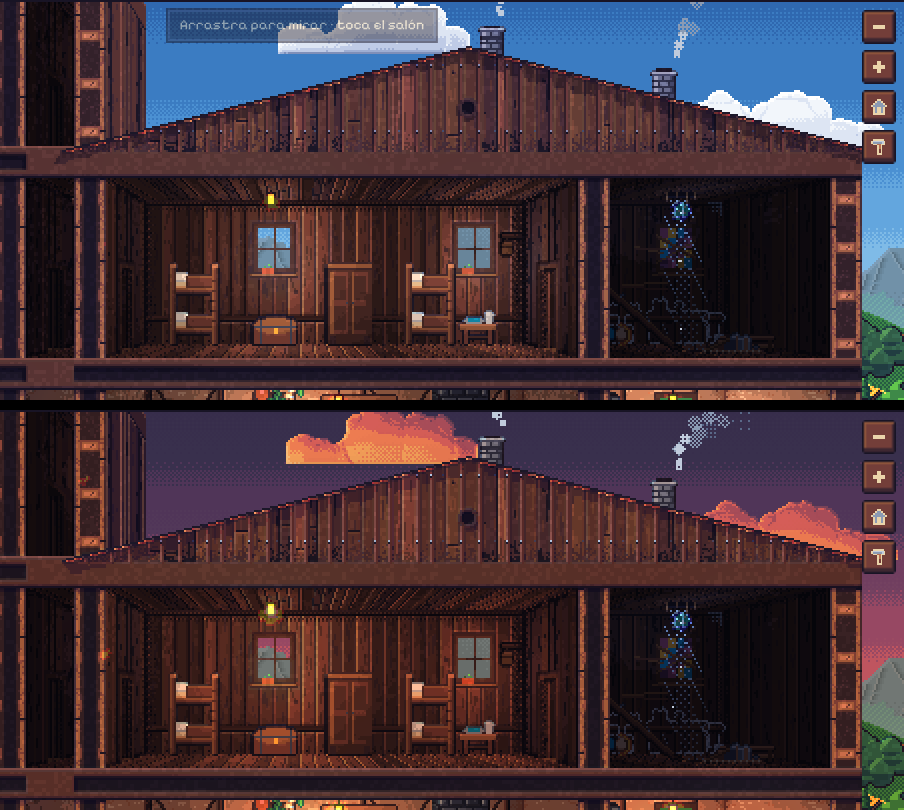
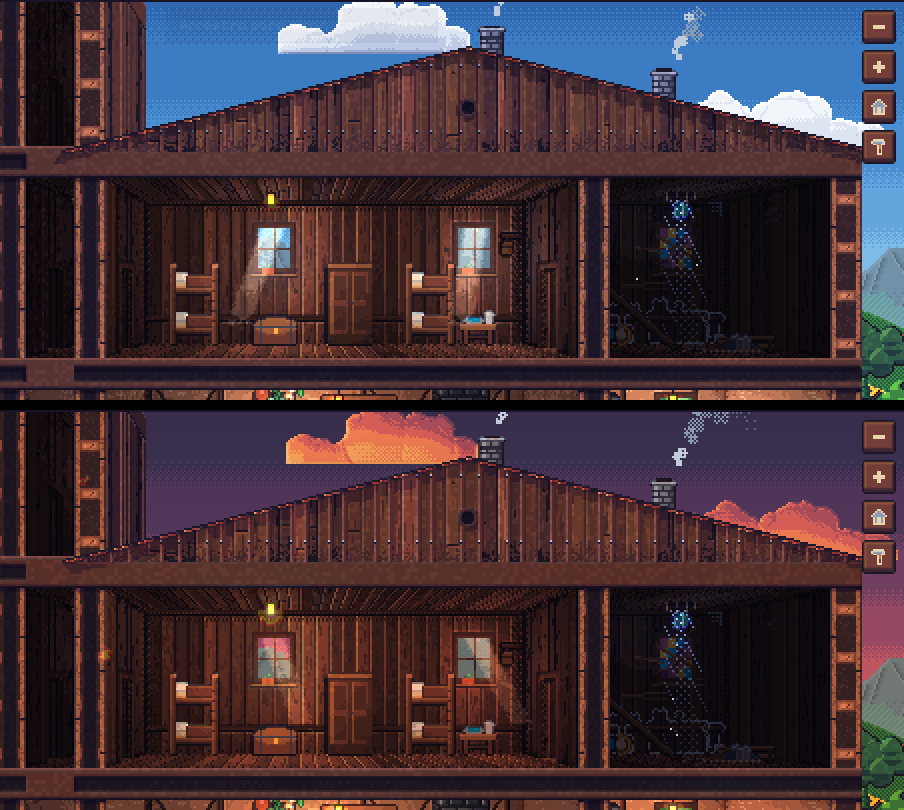
Fase 3: el rayo de sol de cada ventana, visible en el aire
Con «Luz con ambiente» y de día, cada ventana echa una lámina de luz en bandas
(aditiva, sin degradado) hasta el suelo de la sala, inclinada al contrario del
sol y del color del día (dorada al atardecer). Capturas al día.

Claude-Session: https://claude.ai/code/session_014SpyiNw8xcPCkBhD81BYzV

diff --git a/src/world/rooms/RoomScene.ts b/src/world/rooms/RoomScene.ts
@@ -371,6 +371,9 @@ export class RoomScene {
   private dustT = 0;
   private towerRect: Rect | null = null;
   private flames: Mesh[] = [];
+  /** Rayos de sol de las ventanas (luz con ambiente). */
+  private sunbeams: Mesh[] = [];
+  private unitPlane = new PlaneGeometry(1, 1);
   /** La hierba que mueve el viento: cada mata, con su sitio (el viento pasa por x). */
   private grass: { m: Mesh; x: number; seed: number }[] = [];
   private grassTick = -1;
@@ -1275,6 +1278,7 @@ export class RoomScene {
     this.look = new Look(this.shared);
     this.lamps = [];
     this.flames = [];
+    this.sunbeams = [];
     this.grass = [];
     this.emitters = [];
     this.forgeLamps = [];
@@ -1614,6 +1618,20 @@ export class RoomScene {
           halo: 0,
           sun: true,
         });
+        // El rayo en el aire: de la ventana al suelo de la sala.
+        const sx = r.w / back.w;
+        const sy = r.h / back.h;
+        const mat = this.look.shaft();
+        const u = mat.uniforms;
+        u.uTop!.value.set(r.x + (p.x - p.w / 2) * sx, GROUND - (r.y + p.top * sy), -(DEPTH - 1));
+        u.uW!.value = p.w * sx;
+        u.uDrop!.value = r.y + r.h - (r.y + p.top * sy);
+        u.uIn!.value = DEPTH * 0.55;
+        const beam = new Mesh(this.unitPlane, mat);
+        beam.frustumCulled = false;
+        beam.visible = false;
+        this.world.add(beam);
+        this.sunbeams.push(beam);
       }
     // Puerta al jardín en la planta baja, si no hay en medio una escalera sin rellano (que tapa
     // el paso; con rellano, la puerta va en ella). Como `opens` en `cutOff` (`core/rooms.ts`).
@@ -3061,6 +3079,15 @@ export class RoomScene {
     // La luz de las ventanas (luz con ambiente): llena de día, algo menos al atardecer, nada de
     // noche; su color, el del día (más dorado al atardecer).
     const sunLampK = this.moodLight ? Math.max(dl.day, dl.dusk * 0.8) : 0;
+    // Los rayos de sol de las ventanas: se inclinan al contrario del sol y toman su color.
+    const sd = this.shared.uSunDir.value;
+    for (const b of this.sunbeams) {
+      b.visible = sunLampK > 0.02;
+      const u = (b.material as ShaderMaterial).uniforms;
+      u.uK!.value = sunLampK;
+      u.uSlant!.value = -sd.x * 0.7;
+      u.uColor!.value.set(1, 0.88 - 0.3 * dl.dusk, 0.7 - 0.38 * dl.dusk);
+    }
     const cx = view.px + view.vw / 2;
     const cy = GROUND - (view.py + view.vh / 2);
     const x0 = view.px - 40;

diff --git a/src/world/rooms/gl.ts b/src/world/rooms/gl.ts
@@ -8,6 +8,7 @@
  * con la pantalla, y la imagen no «bulle» al mover la cámara.
  */
 import {
+  AdditiveBlending,
   BufferGeometry,
   DataTexture,
   DoubleSide,
@@ -286,6 +287,45 @@ const SURFACE_FRAG = /* glsl */ `
   }
 `;
 
+/**
+ * Rayo de sol que entra por una ventana (luz con ambiente): una lámina que baja de la ventana al
+ * suelo, inclinada al contrario del sol y acercándose a la cámara, en bandas sin degradado.
+ */
+const SHAFT_VERT = /* glsl */ `
+  uniform vec3 uTop;
+  uniform float uW;
+  uniform float uDrop;
+  uniform float uSlant;
+  uniform float uIn;
+  varying vec2 vUv;
+  void main() {
+    vUv = vec2(uv.x, 1.0 - uv.y);
+    vec3 p = vec3(
+      uTop.x + vUv.x * uW + vUv.y * uDrop * uSlant,
+      uTop.y - vUv.y * uDrop,
+      uTop.z + vUv.y * uIn
+    );
+    gl_Position = projectionMatrix * viewMatrix * vec4(p, 1.0);
+  }
+`;
+
+const SHAFT_FRAG = /* glsl */ `
+  uniform vec3 uColor;
+  uniform float uK;
+  uniform float uW;
+  uniform float uDrop;
+  varying vec2 vUv;
+  void main() {
+    float edge = smoothstep(0.0, 0.3, vUv.x) * smoothstep(1.0, 0.7, vUv.x);
+    float fall = pow(1.0 - vUv.y, 0.9);
+    vec2 cell = floor(vUv * vec2(uW, uDrop) / 2.0);
+    float jit = fract(sin(dot(cell, vec2(12.9898, 78.233))) * 43758.5453) - 0.5;
+    float i = floor(edge * fall * uK * 4.0 + jit * 0.6) / 4.0;
+    if (i <= 0.0) discard;
+    gl_FragColor = vec4(uColor * i * 0.5, 1.0);
+  }
+`;
+
 const FLAT_VERT = /* glsl */ `
   void main() {
     gl_Position = projectionMatrix * modelViewMatrix * vec4(position, 1.0);
@@ -480,6 +520,29 @@ export class Look {
         },
         vertexShader: SURFACE_VERT,
         fragmentShader: GLOW_FRAG,
+        side: DoubleSide,
+      }),
+    );
+  }
+
+  /** Rayo de sol de una ventana (ver `SHAFT_VERT`); la escena le pone dónde y cuánto. */
+  shaft(): ShaderMaterial {
+    return this.own(
+      new ShaderMaterial({
+        uniforms: {
+          uColor: { value: new Vector3(1, 0.9, 0.7) },
+          uK: { value: 0 },
+          uTop: { value: new Vector3() },
+          uW: { value: 16 },
+          uDrop: { value: 60 },
+          uSlant: { value: 0 },
+          uIn: { value: 30 },
+        },
+        vertexShader: SHAFT_VERT,
+        fragmentShader: SHAFT_FRAG,
+        transparent: true,
+        depthWrite: false,
+        blending: AdditiveBlending,
         side: DoubleSide,
       }),
     );

diff --git a/src/world/rooms/textures.ts b/src/world/rooms/textures.ts
@@ -166,7 +166,7 @@ export function backWall(room: Room, w: number, h: number, look: SalonLook = NO_
  * Las ventanas que se acaban de pintar en una pared del fondo (centro y alféizar, en píxeles del
  * búfer): la escena las recoge tras `backWall` para poner la luz que entra por ellas.
  */
-const windowsDrawn: { x: number; y: number }[] = [];
+const windowsDrawn: { x: number; y: number; top: number; w: number }[] = [];
 export const takeWindows = () => windowsDrawn.splice(0);
 
 /** Ventana de cuarterones centrada en `cx`: el cristal se deja transparente (se ve el cielo). */
@@ -178,7 +178,7 @@ function windowAt(b: PixelBuffer, cx: number, y: number, room: Room, ruin: boole
   b.rect(x - 2, y - 2, w + 4, h + 4, P.bark);
   const stained = room.type === 'capilla';
   const glass = [P.rose, P.gold, P.sky, P.grape];
-  if (!ruin) windowsDrawn.push({ x: cx, y: y + h });
+  if (!ruin) windowsDrawn.push({ x: cx, y: y + h, top: y, w });
   for (let j = 0; j < h; j++)
     for (let i = 0; i < w; i++)
       if (stained) b.set(x + i, y + j, glass[(Math.floor(i / 4) + Math.floor(j / 5)) % 4]!);

diff --git a/docs/plan-luz.md b/docs/plan-luz.md
@@ -50,10 +50,11 @@ siempre, abajo con el ajuste; `fachada.png`: mañana y tarde), con `tools/shots/
   de la vista (sillares de la chimenea, vigas). Luz que entra por cada ventana (`takeWindows` en
   `textures.ts`): un foco del color del día delante de ella, lleno de día, dorado al atardecer y
   apagado de noche; el día que llegaba igual a toda la sala baja al ×0,45. Luz de borde de los
-  focos en la gente.
+  focos en la gente. Y el rayo de sol en el aire (`shaft` en `gl.ts`): una lámina aditiva en
+  bandas de la ventana al suelo, inclinada al contrario del sol.
 
 Lo que falta: relieve en chimeneas, rótulo, faroles y muebles (son figuras aparte); el rayo de sol
-visible en el aire con polvo; el fondo (fase 4); medir el rendimiento en un móvil de verdad.
+el polvo en los rayos de sol; el fondo (fase 4); medir el rendimiento en un móvil de verdad.
 
 ## Fases (cada una, un PR con capturas antes y después, dentro de «Luz con ambiente»)
 
